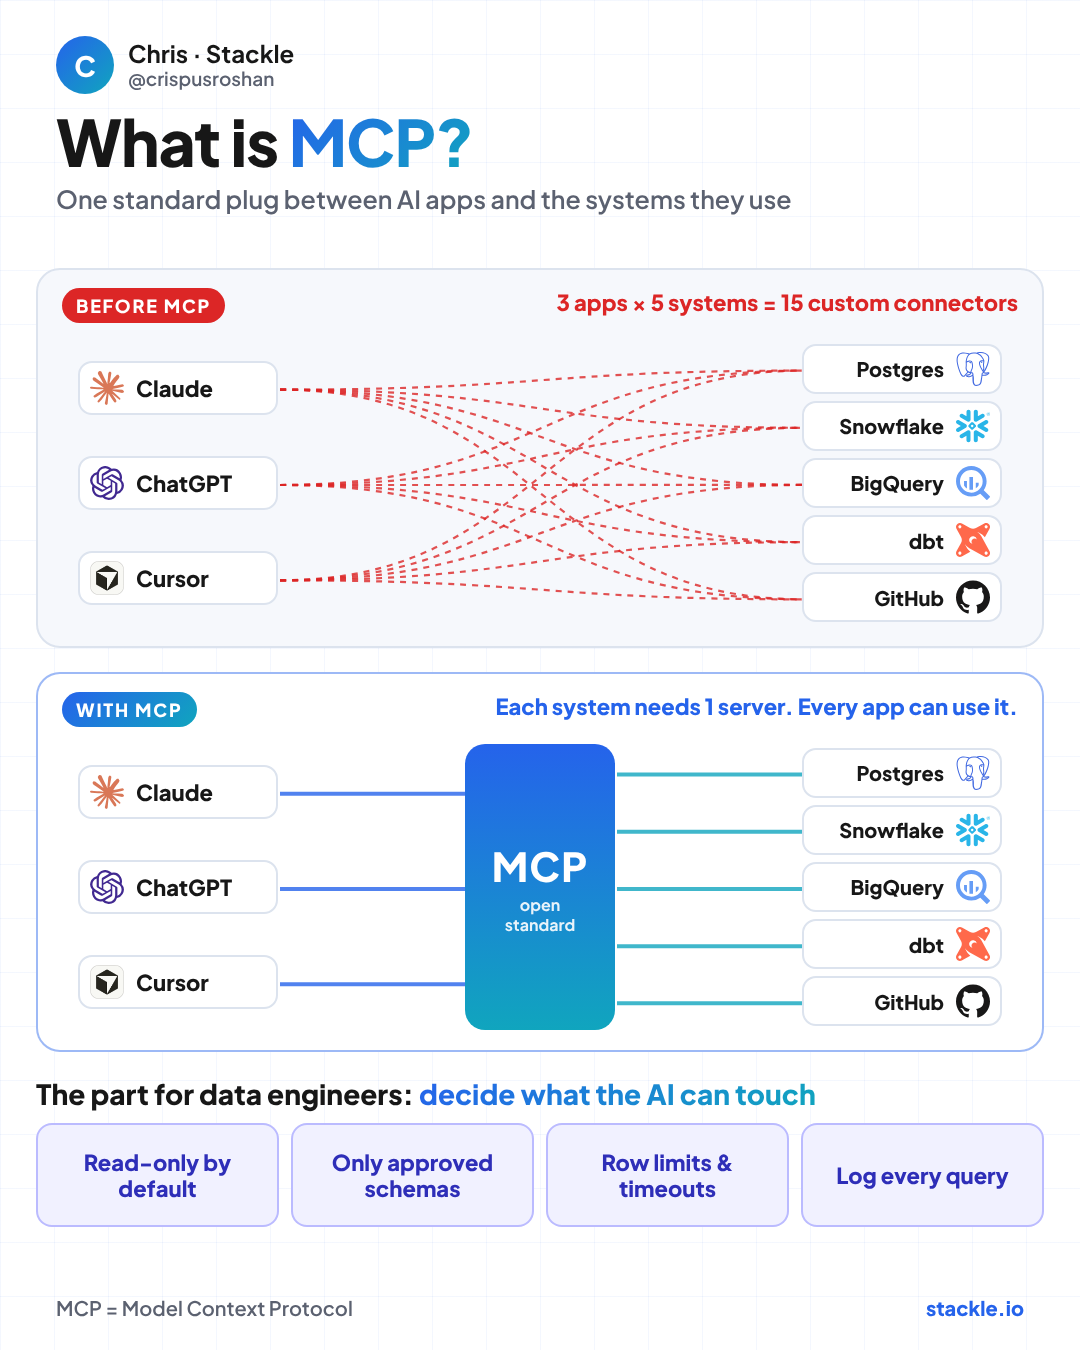
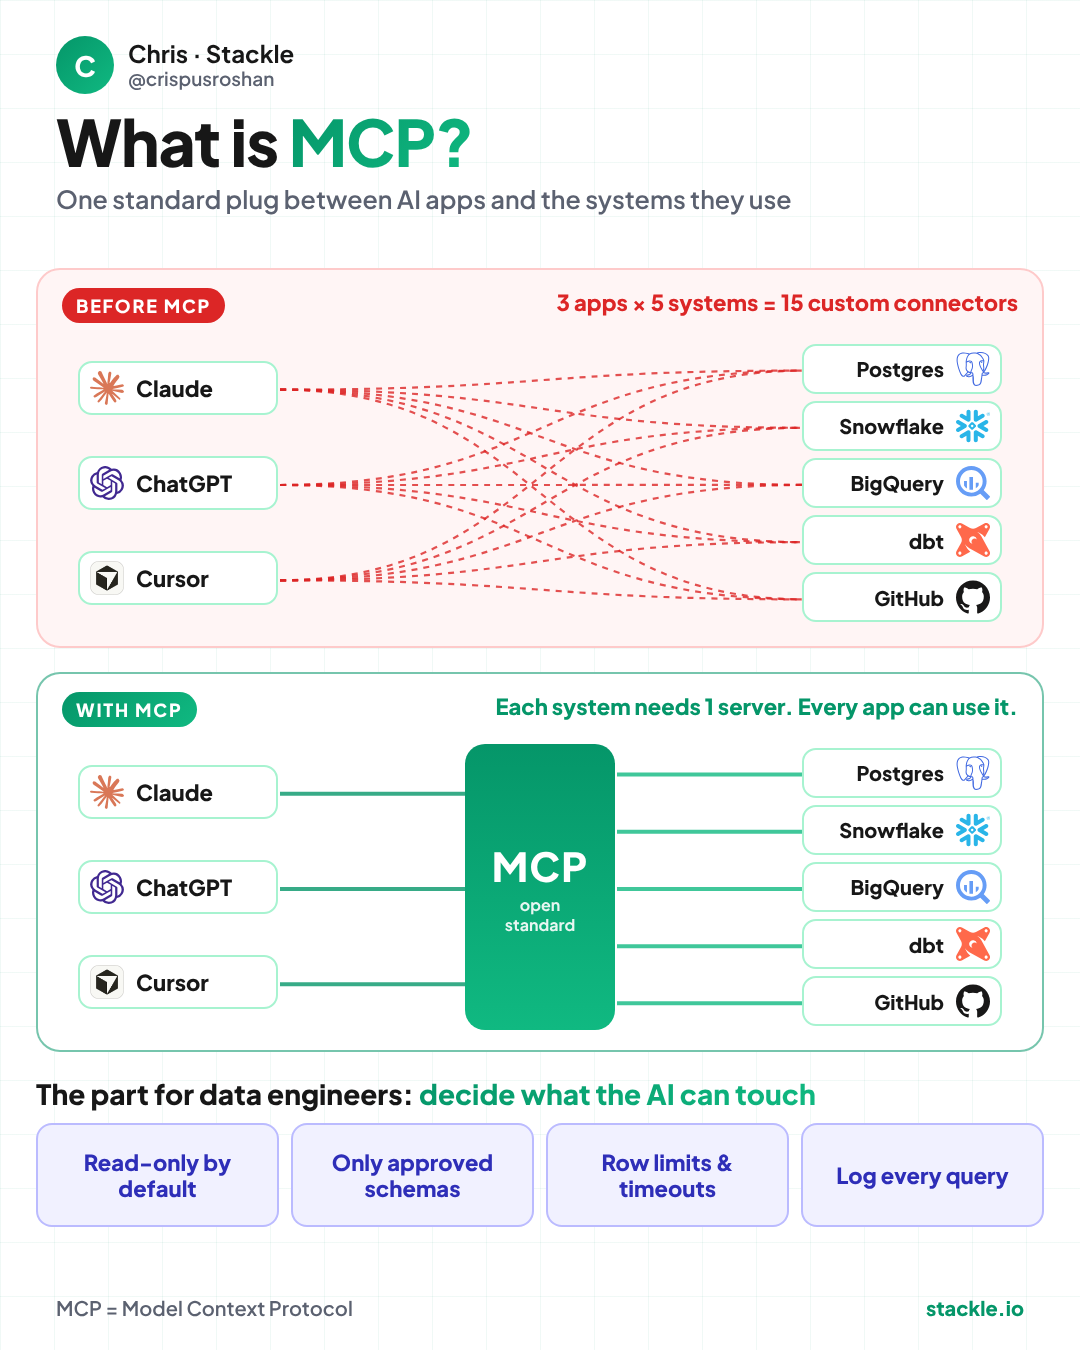
Rotate colour themes across post images instead of blue on white
CLAUDE.md now lists five themes (Blue, Dark, Emerald, Violet, Rose)
and a log of which one each image used. Thursday's Python map is
re-rendered in Dark and Friday's MCP diagram in Emerald.

Claude-Session: https://claude.ai/code/session_01VxFMrig4A7AUR8nYs8NeGU

diff --git a/linkedin-growth/drafts/visuals/python-for-ai-engineering.html b/linkedin-growth/drafts/visuals/python-for-ai-engineering.html
@@ -19,6 +19,15 @@ h1 .hl{display:inline-block;color:#fff;background:linear-gradient(135deg,var(--b
 .mono{display:flex;align-items:center;justify-content:center;color:#fff;font-weight:800;font-size:20px}
 .chip span{font-size:15px;font-weight:700;line-height:1.1}
 footer{bottom:30px}
+</style><style>
+:root{--blue:#3B82F6;--cyan:#22D3EE}
+body{background:#0A0A0A;color:#FAFAFA}
+.grid{background-image:linear-gradient(rgba(255,255,255,.045) 1px,transparent 1px),linear-gradient(90deg,rgba(255,255,255,.045) 1px,transparent 1px)}
+.who span{color:#A1A1AA}
+.band,.band:nth-child(even){background:#FFFFFF;border-color:#27272A;color:#171717}
+.band:nth-child(even){background:#F4F4F5}
+.lab i{color:#5B6170}
+footer{color:#A1A1AA}footer b{color:#22D3EE}
 </style></head><body><div class="grid"></div>
 <header><div class="badge"><div class="avatar">C</div><div class="who">Chris · Stackle<span>@crispusroshan</span></div></div>
[1 lines of base64/hex data omitted]

diff --git a/linkedin-growth/drafts/visuals/mcp-explained.html b/linkedin-growth/drafts/visuals/mcp-explained.html
@@ -24,6 +24,12 @@ svg.lines{position:absolute;inset:0;z-index:1}
 .chips{display:grid;grid-template-columns:repeat(4,1fr);gap:12px}
 .chip{display:flex;align-items:center;justify-content:center;min-height:104px;background:#F1F1FF;border:2px solid rgba(87,87,255,.35);border-radius:16px;padding:14px 12px;font-size:22px;font-weight:800;line-height:1.2;color:#2E2EB8;text-align:center}
 footer{bottom:30px}
+</style><style>
+:root{--blue:#059669;--cyan:#10B981;--card:#ECFDF5;--line:#A7F3D0}
+.grid{background-image:linear-gradient(rgba(5,150,105,.06) 1px,transparent 1px),linear-gradient(90deg,rgba(5,150,105,.06) 1px,transparent 1px)}
+.p2{border-color:rgba(5,150,105,.55)}
+.p1{background:#FFF5F5;border-color:#FECACA}
+.avatar{background:linear-gradient(135deg,#059669,#10B981)}
 </style></head><body><div class="grid"></div>
 <header><div class="badge"><div class="avatar">C</div><div class="who">Chris · Stackle<span>@crispusroshan</span></div></div>
 <h1>What is <em>MCP?</em></h1><div class="sub">One standard plug between AI apps and the systems they use</div></header>
@@ -44,7 +50,7 @@ function wire(pid,sid,mode){
  const path=(x1,y1,x2,y2,c,w,d)=>`<path d="M${x1},${y1} C${(x1+x2)/2},${y1} ${(x1+x2)/2},${y2} ${x2},${y2}" stroke="${c}" stroke-width="${w}" fill="none" ${d?'stroke-dasharray="6 6"':''} opacity=".8"/>`;
  if(mode===1){A.forEach(a=>S.forEach(b=>{h+=path(a.r,a.y,b.l,b.y,'#DC2626',2.2,true)}));}
  else{const hub=p.querySelector('.hub').getBoundingClientRect(),hl=hub.left-pr.left,hr=hub.right-pr.left;
-  A.forEach(a=>h+=path(a.r,a.y,hl,a.y,'#2563EB',4,false));S.forEach(b=>h+=path(hr,b.y,b.l,b.y,'#10A5BE',4,false));}
+  A.forEach(a=>h+=path(a.r,a.y,hl,a.y,'#059669',4,false));S.forEach(b=>h+=path(hr,b.y,b.l,b.y,'#10B981',4,false));}
  s.innerHTML=h;}
 document.fonts.ready.then(()=>{wire('p1','s1',1);wire('p2','s2',2);});
 window.render=()=>{wire('p1','s1',1);wire('p2','s2',2);};

diff --git a/CLAUDE.md b/CLAUDE.md
@@ -5,22 +5,25 @@ Read this before making any graphic, infographic, carousel, thumbnail or motion 
 ## Font
 Plus Jakarta Sans (400, 600, 800). It's the same font stackle.io uses.
 
-## Colours (taken from stackle.io)
+## Colours: rotate a theme every post
 
-**Light: the default for LinkedIn images, carousels and infographics**
-- Background `#FFFFFF`
-- Text `#171717`
-- Muted text `#5B6170`
-- Accent: gradient `#2563EB → #10A5BE` (blue to cyan); solid fallback `#2563EB`
-- Cards `#F6F8FC`, borders `#DCE3EE`
+Don't use the same colours twice in a row. Pick the next theme in this list for each new image. What stays the same on every image is the font, the header (avatar, "Chris · Stackle", handle) and the footer with stackle.io. That's what makes the posts recognisable, not the colour.
 
-**Dark: for video and motion graphics**
-- Background `#0A0A0A`
-- Text `#FAFAFA`
-- Muted text `#A1A1AA`
-- Accent: gradient `#3B82F6 → #22D3EE`; solid fallback `#3B82F6`
+| Theme | Page | Cards / border | Accent gradient | Text / muted |
+|---|---|---|---|---|
+| Blue (stackle.io) | `#FFFFFF` | `#F6F8FC` / `#DCE3EE` | `#2563EB → #10A5BE` | `#171717` / `#5B6170` |
+| Dark | `#0A0A0A` | white cards `#FFFFFF` / `#27272A` | `#3B82F6 → #22D3EE` | `#FAFAFA` / `#A1A1AA` (dark text inside cards) |
+| Emerald | `#FFFFFF` | `#ECFDF5` / `#A7F3D0` | `#059669 → #10B981` | `#171717` / `#5B6170` |
+| Violet | `#FFFFFF` | `#F5F3FF` / `#DDD6FE` | `#5757FF → #A855F7` | `#171717` / `#5B6170` |
+| Rose | `#FFFFFF` | `#FFF1F2` / `#FECDD3` | `#E11D48 → #DB2777` | `#171717` / `#5B6170` |
 
-**Secondary accent (use sparingly):** violet `#5757FF`
+Use red `#DC2626` for "wrong / before" and green `#059669` for "right / after" in any theme.
+
+Video and motion graphics use the Dark theme.
+
+Log of what's been used, so the next image picks a different one:
+- Thu Oct 15, Python map: Dark
+- Fri Oct 16, MCP diagram: Emerald
 
 ## Never use
 Amber/gold `#F59E0B`, `#BA7517`, charcoal `#1E1C1D` and cream `#FAF8F1`. This is the old brown-and-gold video palette, retired on Oct 14, 2026. If any skill or older file says these are "the Stackle colours", this file wins.

diff --git a/skills/stackle-linkedin-posts/SKILL.md b/skills/stackle-linkedin-posts/SKILL.md
@@ -85,7 +85,8 @@ Do not write AI tutorials, AI listicles, tool comparisons, or Claude explainers 
 
 ## Visuals
 
-- Font: Plus Jakarta Sans. Colours from stackle.io: blue-to-cyan accent (#2563EB → #10A5BE) on white (#FFFFFF, text #171717) for images, carousels and infographics; #3B82F6 → #22D3EE on near-black #0A0A0A for video.
+- Font: Plus Jakarta Sans. Keep the header (avatar, name, handle) and the stackle.io footer the same on every image.
+- Rotate colour themes so no two posts in a row look the same: Blue (#2563EB → #10A5BE on white), Dark (#0A0A0A page, white cards, #3B82F6 → #22D3EE), Emerald (#059669 → #10B981), Violet (#5757FF → #A855F7), Rose (#E11D48 → #DB2777). Video uses Dark.
 - Never use amber/gold (#F59E0B, #BA7517), charcoal #1E1C1D or cream #FAF8F1.
 
 ## Hard rules
